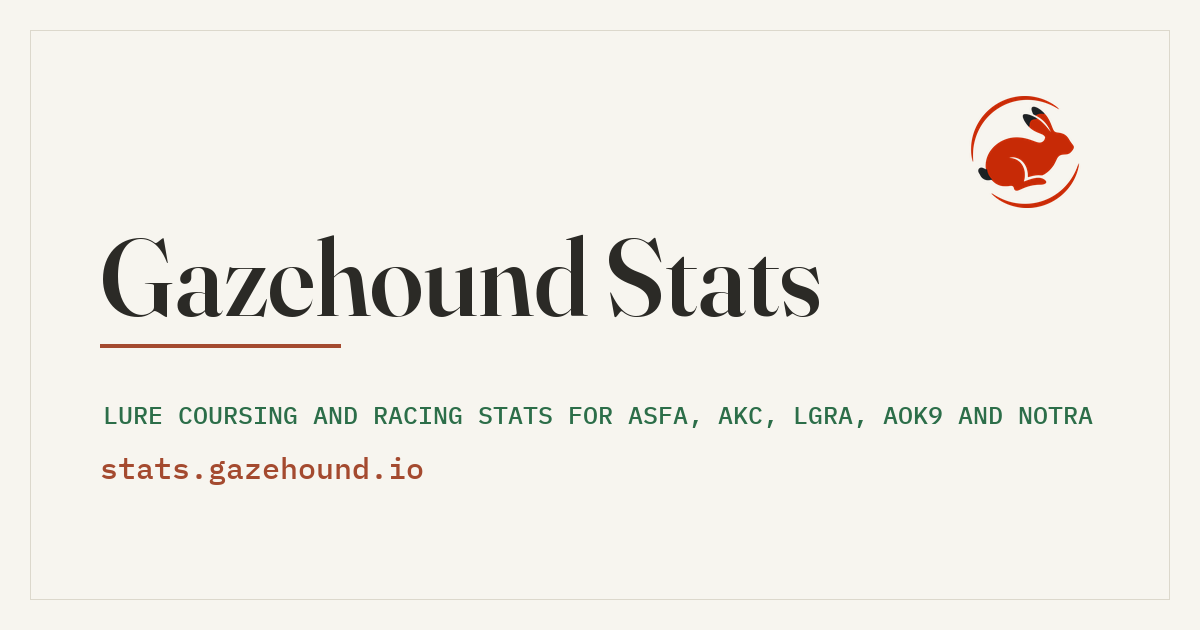
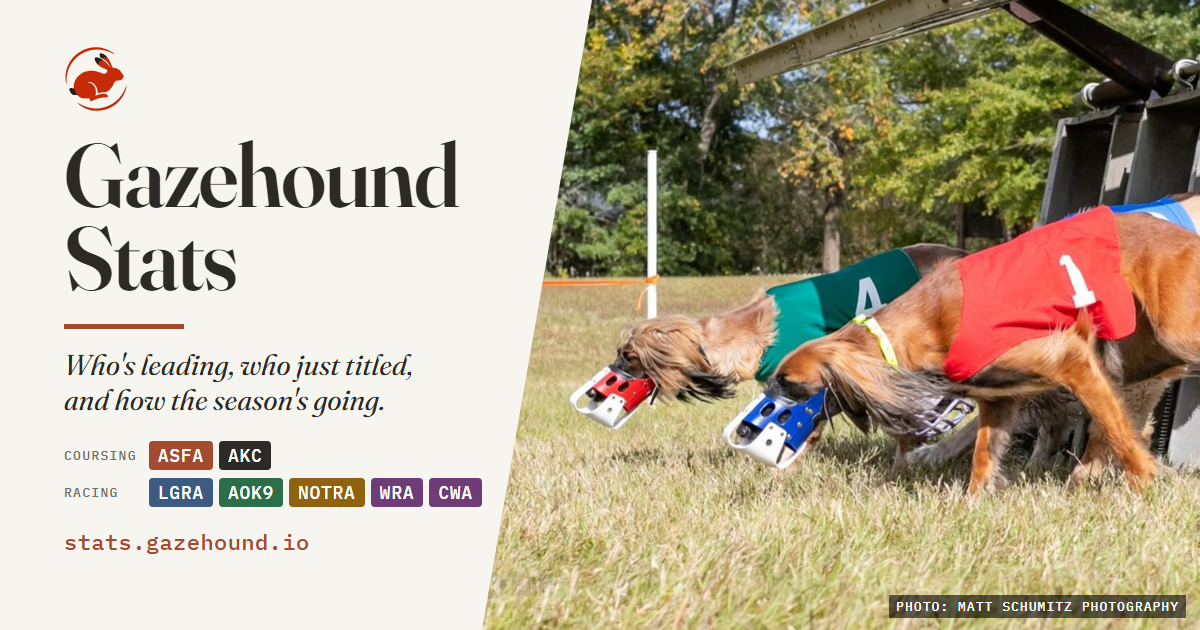
Share card: the Afghans off the boxes, every program named
The link preview named only ASFA, LGRA, AOK9 and NOTRA in its text and
left WRA and CWA off the image. The new card puts the Afghans breaking
from the boxes (credited to Matt Schumitz Photography) beside the title,
with coursing (ASFA, AKC) and racing (LGRA, AOK9, NOTRA, WRA, CWA) chips
in the hub's program colours. The home page title, description and
og:description name all seven; og:image:alt added. og.png ?v=5 on every
page so Facebook fetches the new file. The card's source and renderer
live in tools/og.

diff --git a/tools/og/og.html b/tools/og/og.html
@@ -1,0 +1,60 @@
+<!doctype html>
+<!-- The share card (assets/og.png, 1200x630) as a page. Render it with
+     tools/og/render.ps1, which screenshots this file in headless Chrome.
+     Photo: Matt Schumitz Photography (credited on the card). -->
+<html lang="en">
+<head>
+<meta charset="utf-8">
+<style>
+  @font-face { font-family: 'Fraunces'; src: url('../../assets/fonts/fraunces-latin-var.woff2') format('woff2'); font-weight: 100 900; font-style: normal; }
+  @font-face { font-family: 'Fraunces'; src: url('../../assets/fonts/fraunces-italic-latin-var.woff2') format('woff2'); font-weight: 100 900; font-style: italic; }
+  @font-face { font-family: 'IBM Plex Mono'; src: url('../../assets/fonts/plex-mono-500.woff2') format('woff2'); font-weight: 500; }
+  :root { --paper: #F7F5EF; --ink: #2B2A26; --muted: #6E6C64; --rust: #A44A2F; }
+  * { margin: 0; box-sizing: border-box; }
+  html, body { width: 1200px; height: 630px; overflow: hidden; background: var(--paper); }
+  body { position: relative; font-family: 'Fraunces', serif; color: var(--ink); }
+  .photo {
+    position: absolute; inset: 0 0 0 482px;
+    clip-path: polygon(110px 0, 100% 0, 100% 100%, 0 100%);
+    background: url('afghans.jpg') 40% 80% / 1060px auto no-repeat;
+  }
+  .credit {
+    position: absolute; right: 14px; bottom: 12px;
+    font: 500 13px/1 'IBM Plex Mono', monospace; letter-spacing: 0.08em; text-transform: uppercase;
+    color: #fff; background: rgb(0 0 0 / 0.6); padding: 5px 7px;
+  }
+  .text { position: absolute; left: 64px; top: 46px; width: 470px; }
+  .mark { width: 64px; height: 66px; display: block; margin-bottom: 22px; }
+  h1 {
+    font-size: 90px; line-height: 0.92; font-weight: 600; letter-spacing: -0.02em;
+    font-variation-settings: 'opsz' 144, 'SOFT' 0, 'WONK' 1;
+  }
+  .rule { width: 120px; height: 5px; background: var(--rust); margin: 24px 0 18px; }
+  .tag { font-style: italic; font-size: 29px; line-height: 1.22; font-weight: 400; max-width: 400px; font-variation-settings: 'opsz' 72; }
+  .tag span { display: block; }
+  .chips { display: grid; grid-template-columns: auto 1fr; gap: 8px 12px; align-items: center; margin-top: 24px; }
+  .row { display: flex; gap: 6px; }
+  .lab { font: 500 13px/1 'IBM Plex Mono', monospace; letter-spacing: 0.1em; text-transform: uppercase; color: var(--muted); }
+  .chip { font: 500 18px/1 'IBM Plex Mono', monospace; letter-spacing: 0.04em; color: #fff; padding: 6px 9px 5px; border-radius: 4px; }
+  .asfa { background: #A44A2F; } .akc { background: #2B2A26; } .lgra { background: #3D5A80; }
+  .aok9 { background: #2C6E49; } .notra { background: #8F6210; } .whip { background: #6E3D78; }
+  .url { margin-top: 24px; font: 500 22px/1 'IBM Plex Mono', monospace; color: var(--rust); letter-spacing: 0.02em; }
+</style>
+</head>
+<body>
+  <div class="photo"><span class="credit">Photo: Matt Schumitz Photography</span></div>
+  <div class="text">
+    <img class="mark" src="mark.svg" alt="">
+    <h1>Gazehound<br>Stats</h1>
+    <div class="rule"></div>
+    <p class="tag"><span>Who's leading, who just titled,</span><span>and how the season's going.</span></p>
+    <div class="chips">
+      <span class="lab">Coursing</span>
+      <span class="row"><span class="chip asfa">ASFA</span><span class="chip akc">AKC</span></span>
+      <span class="lab">Racing</span>
+      <span class="row"><span class="chip lgra">LGRA</span><span class="chip aok9">AOK9</span><span class="chip notra">NOTRA</span><span class="chip whip">WRA</span><span class="chip whip">CWA</span></span>
+    </div>
+    <div class="url">stats.gazehound.io</div>
+  </div>
+</body>
+</html>

diff --git a/index.html b/index.html
@@ -5,17 +5,18 @@
   <meta name="viewport" content="width=device-width, initial-scale=1.0">
   <meta name="theme-color" media="(prefers-color-scheme: light)" content="#F7F5EF">
   <meta name="theme-color" media="(prefers-color-scheme: dark)" content="#1B1917">
-  <title>Gazehound Stats — ASFA lure coursing, LGRA, AOK9 and NOTRA racing</title>
-  <meta name="description" content="Lure coursing and racing stats for ASFA, LGRA, AOK9 and NOTRA: standings by breed, points, titles and records, hound by hound. Unofficial fan site.">
+  <title>Gazehound Stats — ASFA and AKC lure coursing; LGRA, AOK9, NOTRA, WRA and CWA racing</title>
+  <meta name="description" content="Lure coursing and racing stats for ASFA, AKC, LGRA, AOK9, NOTRA, WRA and CWA: standings, points, titles and records hound by hound, and trial and entry numbers. Unofficial fan site.">
   <link rel="canonical" href="https://stats.gazehound.io/">
   <meta property="og:type" content="website">
   <meta property="og:site_name" content="Gazehound Stats">
   <meta property="og:title" content="Gazehound Stats">
-  <meta property="og:description" content="Lure coursing and racing stats for ASFA, LGRA, AOK9 and NOTRA. Unofficial fan site.">
+  <meta property="og:description" content="Who's leading, who just titled, and how the season's going: lure coursing and racing stats for ASFA, AKC, LGRA, AOK9, NOTRA, WRA and CWA. Unofficial fan site.">
   <meta property="og:url" content="https://stats.gazehound.io/">
-  <meta property="og:image" content="https://stats.gazehound.io/assets/og.png?v=4">
+  <meta property="og:image" content="https://stats.gazehound.io/assets/og.png?v=5">
   <meta property="og:image:width" content="1200">
   <meta property="og:image:height" content="630">
+  <meta property="og:image:alt" content="Three Afghan Hounds in racing blankets breaking from the starting boxes, beside the Gazehound Stats title">
   <meta name="twitter:card" content="summary_large_image">
   <link rel="preload" href="assets/fonts/fraunces-latin-var.woff2" as="font" type="font/woff2" crossorigin>
   <link rel="preload" href="assets/fonts/plex-mono-400.woff2" as="font" type="font/woff2" crossorigin>

diff --git a/notra-whippets.html b/notra-whippets.html
@@ -13,7 +13,7 @@
   <meta property="og:title" content="NOTRA Whippet racing standings — Gazehound Stats">
   <meta property="og:description" content="NOTRA Whippet oval racing standings from NOTRA's Whippet grading guide: national points this year, career points, WAVE and grade for every active whippet. Unofficial; the published guide governs.">
   <meta property="og:url" content="https://stats.gazehound.io/notra-whippets.html">
-  <meta property="og:image" content="https://stats.gazehound.io/assets/og.png?v=4">
+  <meta property="og:image" content="https://stats.gazehound.io/assets/og.png?v=5">
   <meta property="og:image:width" content="1200">
   <meta property="og:image:height" content="630">
   <meta name="twitter:card" content="summary_large_image">

diff --git a/wra.html b/wra.html
@@ -13,7 +13,7 @@
   <meta property="og:title" content="WRA whippet racing standings — Gazehound Stats">
   <meta property="og:description" content="Whippet Racing Association standings from WRA's grading guide: national points this year, career points, grade and the last three meets for every active whippet. Unofficial; WRA's own records govern.">
   <meta property="og:url" content="https://stats.gazehound.io/wra.html">
-  <meta property="og:image" content="https://stats.gazehound.io/assets/og.png?v=4">
+  <meta property="og:image" content="https://stats.gazehound.io/assets/og.png?v=5">
   <meta property="og:image:width" content="1200">
   <meta property="og:image:height" content="630">
   <meta name="twitter:card" content="summary_large_image">

diff --git a/bowen.html b/bowen.html
@@ -13,7 +13,7 @@
   <meta property="og:title" content="The Bowen point system — Gazehound Stats">
   <meta property="og:description" content="How ASFA's Bowen system scores a hound for the Top 20: one point for placing plus one for each hound defeated, with a calculator and the rules for flights, Best of Breed, ties and invalid entries.">
   <meta property="og:url" content="https://stats.gazehound.io/bowen.html">
-  <meta property="og:image" content="https://stats.gazehound.io/assets/og.png?v=4">
+  <meta property="og:image" content="https://stats.gazehound.io/assets/og.png?v=5">
   <meta property="og:image:width" content="1200">
   <meta property="og:image:height" content="630">
   <meta name="twitter:card" content="summary_large_image">

diff --git a/titles.html b/titles.html
@@ -13,7 +13,7 @@
   <meta property="og:title" content="New ASFA titles — Gazehound Stats">
   <meta property="og:description" content="Every hound with a new ASFA lure coursing title this season — Field Champion, Lure Courser of Merit, Coursing Proficiency and Lure Chasing Instinct titles, with dates and owners. Unofficial fan site.">
   <meta property="og:url" content="https://stats.gazehound.io/titles.html">
-  <meta property="og:image" content="https://stats.gazehound.io/assets/og.png?v=4">
+  <meta property="og:image" content="https://stats.gazehound.io/assets/og.png?v=5">
   <meta property="og:image:width" content="1200">
   <meta property="og:image:height" content="630">
   <meta name="twitter:card" content="summary_large_image">

diff --git a/asfa.html b/asfa.html
@@ -13,7 +13,7 @@
   <meta property="og:title" content="ASFA lure coursing standings — Gazehound Stats">
   <meta property="og:description" content="Search the ASFA lure coursing Top 20 standings by hound name. Best in Field and Best of Breed leaders, Bowen point totals, breed percentiles, kennel leaderboards. Unofficial fan site.">
   <meta property="og:url" content="https://stats.gazehound.io/asfa.html">
-  <meta property="og:image" content="https://stats.gazehound.io/assets/og.png?v=4">
+  <meta property="og:image" content="https://stats.gazehound.io/assets/og.png?v=5">
   <meta property="og:image:width" content="1200">
   <meta property="og:image:height" content="630">
   <meta name="twitter:card" content="summary_large_image">

diff --git a/aok9.html b/aok9.html
@@ -13,7 +13,7 @@
   <meta property="og:title" content="AOK9 sprint racing standings — Gazehound Stats">
   <meta property="og:description" content="AOK9 all-breed sprint racing standings by breed from the grading guide: National points this year, career National points, WAVE and grade for every active dog. Unofficial fan site.">
   <meta property="og:url" content="https://stats.gazehound.io/aok9.html">
-  <meta property="og:image" content="https://stats.gazehound.io/assets/og.png?v=4">
+  <meta property="og:image" content="https://stats.gazehound.io/assets/og.png?v=5">
   <meta property="og:image:width" content="1200">
   <meta property="og:image:height" content="630">
   <meta name="twitter:card" content="summary_large_image">

diff --git a/cwa.html b/cwa.html
@@ -13,7 +13,7 @@
   <meta property="og:title" content="CWA whippet racing — Gazehound Stats">
   <meta property="og:description" content="Continental Whippet Alliance whippets: grade, average, the last three meets and progress toward every title, with CWA's standings and title holders. Unofficial; CWA's own records govern.">
   <meta property="og:url" content="https://stats.gazehound.io/cwa.html">
-  <meta property="og:image" content="https://stats.gazehound.io/assets/og.png?v=4">
+  <meta property="og:image" content="https://stats.gazehound.io/assets/og.png?v=5">
   <meta property="og:image:width" content="1200">
   <meta property="og:image:height" content="630">
   <meta name="twitter:card" content="summary_large_image">

diff --git a/notra.html b/notra.html
@@ -13,7 +13,7 @@
   <meta property="og:title" content="NOTRA OB racing standings — Gazehound Stats">
   <meta property="og:description" content="NOTRA OB oval racing standings by breed from the Other-Breed grading guide: National points this year, career points, WAVE and grade for every active hound. Unofficial fan site.">
   <meta property="og:url" content="https://stats.gazehound.io/notra.html">
-  <meta property="og:image" content="https://stats.gazehound.io/assets/og.png?v=4">
+  <meta property="og:image" content="https://stats.gazehound.io/assets/og.png?v=5">
   <meta property="og:image:width" content="1200">
   <meta property="og:image:height" content="630">
   <meta name="twitter:card" content="summary_large_image">

diff --git a/rulebooks.html b/rulebooks.html
@@ -13,7 +13,7 @@
   <meta property="og:title" content="Rulebooks — Gazehound Stats">
   <meta property="og:description" content="Where to find ASFA's own documents: the Running Rules and Field Procedures, the LCI rules, the Bowen system, the judges handbook, and the standings and results this site is built from.">
   <meta property="og:url" content="https://stats.gazehound.io/rulebooks.html">
-  <meta property="og:image" content="https://stats.gazehound.io/assets/og.png?v=4">
+  <meta property="og:image" content="https://stats.gazehound.io/assets/og.png?v=5">
   <meta property="og:image:width" content="1200">
   <meta property="og:image:height" content="630">
   <meta name="twitter:card" content="summary_large_image">

diff --git a/lgra.html b/lgra.html
@@ -13,7 +13,7 @@
   <meta property="og:title" content="LGRA straight racing standings — Gazehound Stats">
   <meta property="og:description" content="LGRA straight racing standings by breed from the grading guide: National points this year, career points, WAVE and grade for every active hound. Unofficial fan site.">
   <meta property="og:url" content="https://stats.gazehound.io/lgra.html">
-  <meta property="og:image" content="https://stats.gazehound.io/assets/og.png?v=4">
+  <meta property="og:image" content="https://stats.gazehound.io/assets/og.png?v=5">
   <meta property="og:image:width" content="1200">
   <meta property="og:image:height" content="630">
   <meta name="twitter:card" content="summary_large_image">
